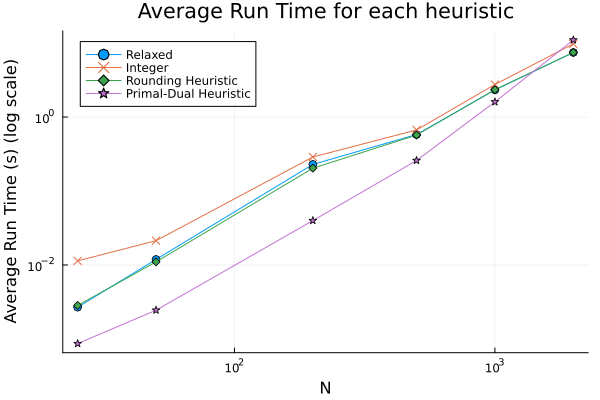
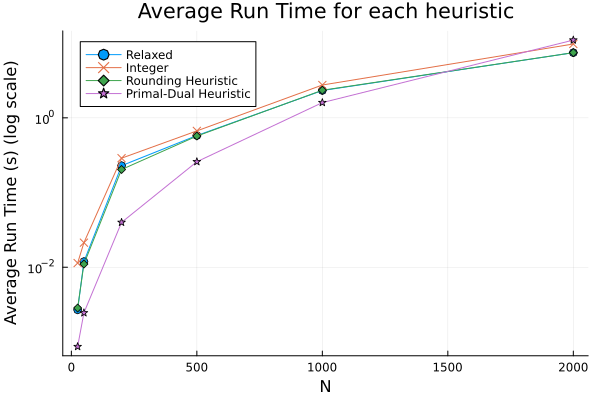
Updating plots & results

diff --git a/SimpleFacilityLocation/readme.md b/SimpleFacilityLocation/readme.md
@@ -16,56 +16,57 @@ The following table give the results obtained on a few instances. We selected in
 
 | Instance | N | M | Relaxed obj | Time | Integer Obj | Time | Integrality Gap | Rounding heuristic | Time | Primal-Dual Heuristic | Time |
 | :----: | -: | -: | -: | -: | -: | -: | -: | -: | -: | -: | -: |
-| 1 | 25 | 10 | 1498.5 | 2.9e-03 | 1500 | 5.7e-03 | 1.5 | 1515 | 3.4e-03 | 1510 | 2.3e-04 |
-| 2 | 25 | 10 | 2191.5 | 2.8e-03 | 2194 | 5.9e-03 | 2.5 | 2201 | 3.0e-03 | 2287 | 3.8e-04 |
-| 3 | 25 | 10 | 1595.0 | 3.4e-03 | 1604 | 6.2e-03 | 9.0 | 1631 | 2.9e-03 | 1865 | 2.7e-04 |
-| 4 | 25 | 10 | 1529.0 | 2.8e-03 | 1532 | 5.4e-03 | 3.0 | 1551 | 2.8e-03 | 1818 | 2.4e-04 |
-| 5 | 25 | 10 | 1399.0 | 2.7e-03 | 1399 | 4.1e-03 | 0.0 | 1399 | 2.8e-03 | 1399 | 2.5e-04 |
-| 6 | 25 | 10 | 1577.0 | 2.5e-03 | 1577 | 3.9e-03 | 0.0 | 1577 | 2.2e-01 | 1687 | 2.6e-04 |
-| 7 | 25 | 10 | 1588.0 | 2.6e-03 | 1588 | 3.8e-03 | 0.0 | 1588 | 2.8e-03 | 1808 | 2.7e-04 |
-| 8 | 25 | 10 | 1752.0 | 2.6e-03 | 1752 | 3.9e-03 | 0.0 | 1752 | 2.6e-03 | 1797 | 3.5e-04 |
-| 9 | 25 | 10 | 1620.0 | 2.7e-03 | 1620 | 3.8e-03 | 0.0 | 1620 | 2.6e-03 | 1648 | 2.9e-04 |
-| 10 | 25 | 10 | 1557.0 | 2.6e-03 | 1557 | 3.8e-03 | 0.0 | 1557 | 2.8e-03 | 1592 | 2.4e-04 |
-| 11 | 50 | 25 | 2210.0 | 1.2e-02 | 2212 | 1.8e-02 | 2.0 | 2221 | 9.9e-03 | 2339 | 6.1e-04 |
-| 12 | 50 | 25 | 2423.5 | 9.9e-03 | 2424 | 1.6e-02 | 0.5 | 2457 | 1.1e-02 | 2766 | 7.8e-04 |
-| 13 | 50 | 25 | 2189.5 | 9.5e-03 | 2197 | 2.4e-02 | 7.5 | 2207 | 1.0e-02 | 2317 | 8.3e-04 |
-| 14 | 50 | 25 | 2186.5 | 1.0e-02 | 2187 | 1.6e-02 | 0.5 | 2232 | 1.0e-02 | 2398 | 5.8e-04 |
-| 15 | 50 | 25 | 2226.0 | 1.0e-02 | 2228 | 1.5e-02 | 2.0 | 2232 | 1.0e-02 | 2325 | 7.4e-04 |
-| 16 | 50 | 25 | 2177.0 | 1.0e-02 | 2178 | 1.9e-02 | 1.0 | 2198 | 9.8e-03 | 2457 | 6.1e-04 |
-| 17 | 50 | 25 | 2558.5 | 1.0e-02 | 2559 | 1.7e-02 | 0.5 | 2569 | 1.1e-02 | 2603 | 9.0e-04 |
-| 18 | 50 | 25 | 2612.0 | 9.6e-03 | 2613 | 1.6e-02 | 1.0 | 2646 | 9.7e-03 | 2699 | 7.0e-04 |
-| 19 | 50 | 25 | 2279.0 | 1.0e-02 | 2280 | 1.6e-02 | 1.0 | 2306 | 1.0e-02 | 2430 | 7.7e-04 |
-| 20 | 50 | 25 | 2327.5 | 9.8e-03 | 2328 | 1.7e-02 | 0.5 | 2365 | 3.9e-02 | 2559 | 6.7e-04 |
-| 21 | 50 | 25 | 2415.0 | 1.0e-02 | 2418 | 1.9e-02 | 3.0 | 2471 | 9.3e-03 | 2539 | 6.6e-04 |
-| 22 | 50 | 25 | 2515.5 | 9.4e-03 | 2516 | 1.6e-02 | 0.5 | 2536 | 9.4e-03 | 2661 | 6.6e-04 |
-| 23 | 50 | 25 | 2442.5 | 9.3e-03 | 2444 | 2.0e-02 | 1.5 | 2461 | 1.0e-02 | 2547 | 6.7e-04 |
-| 24 | 50 | 25 | 2310.5 | 9.9e-03 | 2312 | 1.8e-02 | 1.5 | 2346 | 9.5e-03 | 2390 | 7.2e-04 |
-| 25 | 50 | 25 | 2359.5 | 9.6e-03 | 2362 | 1.6e-02 | 2.5 | 2387 | 9.8e-03 | 2704 | 6.4e-04 |
-| 26 | 50 | 25 | 2338.5 | 9.8e-03 | 2339 | 1.6e-02 | 0.5 | 2395 | 1.0e-02 | 2592 | 6.5e-04 |
-| 27 | 50 | 25 | 2260.0 | 9.9e-03 | 2261 | 2.0e-02 | 1.0 | 2272 | 1.1e-02 | 2282 | 6.7e-04 |
-| 28 | 50 | 25 | 2147.0 | 9.3e-03 | 2147 | 1.1e-02 | 0.0 | 2147 | 9.3e-03 | 2175 | 6.4e-04 |
-| 29 | 50 | 25 | 2471.0 | 9.4e-03 | 2471 | 1.2e-02 | 0.0 | 2471 | 9.5e-03 | 2535 | 7.4e-04 |
-| 30 | 50 | 25 | 2289.0 | 9.5e-03 | 2289 | 1.1e-02 | 0.0 | 2289 | 9.8e-03 | 2386 | 2.9e-02 |
-| 31 | 200 | 100 | 5248.0 | 1.8e-01 | 5251 | 7.0e-01 | 3.0 | 5283 | 1.5e-01 | 6111 | 7.2e-03 |
-| 32 | 200 | 100 | 5006.5 | 1.6e-01 | 5009 | 5.3e-01 | 2.5 | 5075 | 1.8e-01 | 6020 | 5.8e-03 |
-| 33 | 200 | 100 | 4920.0 | 4.1e-01 | 4922 | 3.0e-01 | 2.0 | 4997 | 1.5e-01 | 5831 | 5.0e-03 |
-| 34 | 200 | 100 | 5099.0 | 2.2e-01 | 5099 | 1.7e-01 | 0.0 | 5099 | 2.1e-01 | 5752 | 5.6e-03 |
-| 35 | 200 | 100 | 5175.0 | 1.5e-01 | 5175 | 3.9e-01 | 0.0 | 5175 | 1.8e-01 | 5527 | 5.6e-03 |
-| 36 | 500 | 100 | 10691.0 | 5.0e-01 | 10691 | 7.3e-01 | 0.0 | 10691 | 4.8e-01 | 12358 | 1.7e-02 |
-| 37 | 500 | 100 | 10943.5 | 6.5e-01 | 10945 | 5.6e-01 | 1.5 | 10950 | 7.4e-01 | 12104 | 1.8e-02 |
-| 38 | 500 | 100 | 10862.0 | 4.7e-01 | 10864 | 7.4e-01 | 2.0 | 10903 | 6.9e-01 | 12370 | 1.7e-02 |
-| 39 | 500 | 100 | 11181.0 | 5.0e-01 | 11181 | 7.3e-01 | 0.0 | 11181 | 4.9e-01 | 12740 | 1.7e-02 |
-| 40 | 500 | 100 | 10715.0 | 6.7e-01 | 10715 | 5.7e-01 | 0.0 | 10715 | 6.6e-01 | 12530 | 1.7e-02 |
-| 41 | 1000 | 200 | 16331.0 | 2.5e+00 | 16332 | 3.4e+00 | 1.0 | 16353 | 2.8e+00 | 18911 | 6.8e-02 |
-| 42 | 1000 | 200 | 16325.5 | 3.0e+00 | 16327 | 3.1e+00 | 1.5 | 16341 | 2.7e+00 | 18486 | 7.0e-02 |
-| 43 | 1000 | 200 | 16012.0 | 2.9e+00 | 16012 | 3.1e+00 | 0.0 | 16012 | 3.1e+00 | 18917 | 7.3e-02 |
-| 44 | 1000 | 200 | 16976.0 | 2.8e+00 | 16976 | 3.4e+00 | 0.0 | 16976 | 2.5e+00 | 19948 | 7.3e-02 |
-| 45 | 1000 | 200 | 16948.0 | 2.6e+00 | 16948 | 3.2e+00 | 0.0 | 16948 | 2.9e+00 | 19257 | 8.8e-02 |
-| 46 | 2000 | 300 | 26302.0 | 1.0e+01 | 26303 | 1.1e+01 | 1.0 | 26334 | 8.6e+00 | 30594 | 3.5e-01 |
-| 47 | 2000 | 300 | 25960.0 | 8.4e+00 | 25960 | 9.6e+00 | 0.0 | 25960 | 9.5e+00 | 29895 | 3.9e-01 |
-| 48 | 2000 | 300 | 25919.0 | 8.5e+00 | 25919 | 1.0e+01 | 0.0 | 25919 | 8.3e+00 | 29247 | 3.3e-01 |
-| 49 | 2000 | 300 | 26266.0 | 7.9e+00 | 26266 | 1.1e+01 | 0.0 | 26266 | 9.9e+00 | 31108 | 4.0e-01 |
-| 50 | 2000 | 300 | 25709.0 | 8.4e+00 | 25709 | 1.0e+01 | 0.0 | 25709 | 9.0e+00 | 30188 | 4.2e-01 |
+| 1 | 25 | 10 | 1498.5 | 2.9e-03 | 1500 | 6.5e-02 | 1.5 | 1515 | 2.8e-03 | 1516 | 7.1e-04 |
+| 2 | 25 | 10 | 2191.5 | 2.6e-03 | 2194 | 5.4e-03 | 2.5 | 2201 | 2.9e-03 | 2287 | 1.9e-03 |
+| 3 | 25 | 10 | 1595.0 | 2.9e-03 | 1604 | 6.0e-03 | 9.0 | 1631 | 3.2e-03 | 1865 | 8.4e-04 |
+| 4 | 25 | 10 | 1529.0 | 2.8e-03 | 1532 | 4.8e-03 | 3.0 | 1551 | 2.8e-03 | 1608 | 7.2e-04 |
+| 5 | 25 | 10 | 1399.0 | 2.7e-03 | 1399 | 4.1e-03 | 0.0 | 1399 | 2.7e-03 | 1399 | 7.0e-04 |
+| 6 | 25 | 10 | 1577.0 | 2.5e-03 | 1577 | 1.3e-02 | 0.0 | 1577 | 2.7e-03 | 1687 | 6.9e-04 |
+| 7 | 25 | 10 | 1588.0 | 2.6e-03 | 1588 | 3.7e-03 | 0.0 | 1588 | 3.2e-03 | 1808 | 8.0e-04 |
+| 8 | 25 | 10 | 1752.0 | 2.7e-03 | 1752 | 3.6e-03 | 0.0 | 1752 | 2.8e-03 | 1797 | 8.4e-04 |
+| 9 | 25 | 10 | 1620.0 | 2.7e-03 | 1620 | 4.2e-03 | 0.0 | 1620 | 2.7e-03 | 1648 | 7.4e-04 |
+| 10 | 25 | 10 | 1557.0 | 2.5e-03 | 1557 | 3.5e-03 | 0.0 | 1557 | 2.7e-03 | 1592 | 7.4e-04 |
+| 11 | 50 | 25 | 2210.0 | 1.0e-02 | 2212 | 2.4e-02 | 2.0 | 2221 | 1.2e-02 | 2339 | 2.0e-03 |
+| 12 | 50 | 25 | 2423.5 | 1.1e-02 | 2424 | 3.1e-02 | 0.5 | 2457 | 1.0e-02 | 2639 | 2.5e-03 |
+| 13 | 50 | 25 | 2189.5 | 9.8e-03 | 2197 | 2.1e-02 | 7.5 | 2207 | 9.7e-03 | 2317 | 2.4e-03 |
+| 14 | 50 | 25 | 2186.5 | 1.0e-02 | 2187 | 1.7e-02 | 0.5 | 2232 | 1.7e-02 | 2336 | 2.2e-03 |
+| 15 | 50 | 25 | 2226.0 | 9.6e-03 | 2228 | 1.6e-02 | 2.0 | 2232 | 1.0e-02 | 2298 | 2.4e-03 |
+| 16 | 50 | 25 | 2177.0 | 1.1e-02 | 2178 | 1.6e-02 | 1.0 | 2198 | 9.6e-03 | 2279 | 2.3e-03 |
+| 17 | 50 | 25 | 2558.5 | 3.8e-02 | 2559 | 2.0e-02 | 0.5 | 2569 | 1.0e-02 | 2603 | 2.7e-03 |
+| 18 | 50 | 25 | 2612.0 | 1.1e-02 | 2613 | 1.6e-02 | 1.0 | 2646 | 9.8e-03 | 2699 | 2.7e-03 |
+| 19 | 50 | 25 | 2279.0 | 9.7e-03 | 2280 | 7.6e-02 | 1.0 | 2306 | 9.8e-03 | 2430 | 2.3e-03 |
+| 20 | 50 | 25 | 2327.5 | 1.0e-02 | 2328 | 1.6e-02 | 0.5 | 2365 | 9.8e-03 | 2534 | 2.2e-03 |
+| 21 | 50 | 25 | 2415.0 | 1.0e-02 | 2418 | 2.2e-02 | 3.0 | 2471 | 1.3e-02 | 2539 | 3.4e-03 |
+| 22 | 50 | 25 | 2515.5 | 1.1e-02 | 2516 | 1.8e-02 | 0.5 | 2536 | 1.0e-02 | 2624 | 2.3e-03 |
+| 23 | 50 | 25 | 2442.5 | 1.0e-02 | 2444 | 1.8e-02 | 1.5 | 2461 | 2.1e-02 | 2547 | 2.3e-03 |
+| 24 | 50 | 25 | 2310.5 | 9.5e-03 | 2312 | 1.7e-02 | 1.5 | 2346 | 1.0e-02 | 2390 | 2.6e-03 |
+| 25 | 50 | 25 | 2359.5 | 1.0e-02 | 2362 | 1.7e-02 | 2.5 | 2387 | 9.8e-03 | 2704 | 2.4e-03 |
+| 26 | 50 | 25 | 2338.5 | 9.9e-03 | 2339 | 1.7e-02 | 0.5 | 2395 | 9.8e-03 | 2592 | 2.7e-03 |
+| 27 | 50 | 25 | 2260.0 | 1.8e-02 | 2261 | 2.5e-02 | 1.0 | 2272 | 9.7e-03 | 2270 | 2.3e-03 |
+| 28 | 50 | 25 | 2147.0 | 9.4e-03 | 2147 | 1.2e-02 | 0.0 | 2147 | 9.7e-03 | 2175 | 2.3e-03 |
+| 29 | 50 | 25 | 2471.0 | 9.5e-03 | 2471 | 1.7e-02 | 0.0 | 2471 | 9.6e-03 | 2535 | 2.8e-03 |
+| 30 | 50 | 25 | 2289.0 | 1.0e-02 | 2289 | 1.1e-02 | 0.0 | 2289 | 9.6e-03 | 2386 | 2.1e-03 |
+| 31 | 200 | 100 | 5248.0 | 2.1e-01 | 5251 | 3.2e-01 | 3.0 | 5283 | 2.2e-01 | 5779 | 4.1e-02 |
+| 32 | 200 | 100 | 5006.5 | 2.8e-01 | 5009 | 3.6e-01 | 2.5 | 5075 | 2.2e-01 | 6007 | 4.0e-02 |
+| 33 | 200 | 100 | 4920.0 | 1.8e-01 | 4922 | 3.6e-01 | 2.0 | 4997 | 1.7e-01 | 5803 | 3.5e-02 |
+| 34 | 200 | 100 | 5099.0 | 2.6e-01 | 5099 | 1.9e-01 | 0.0 | 5099 | 1.9e-01 | 5741 | 4.1e-02 |
+| 35 | 200 | 100 | 5175.0 | 2.2e-01 | 5175 | 2.2e-01 | 0.0 | 5175 | 2.2e-01 | 5483 | 4.2e-02 |
+| 36 | 500 | 100 | 10691.0 | 6.4e-01 | 10691 | 6.9e-01 | 0.0 | 10691 | 6.2e-01 | 12336 | 2.5e-01 |
+| 37 | 500 | 100 | 10943.5 | 5.6e-01 | 10945 | 6.2e-01 | 1.5 | 10950 | 5.8e-01 | 12053 | 2.6e-01 |
+| 38 | 500 | 100 | 10862.0 | 5.9e-01 | 10864 | 8.1e-01 | 2.0 | 10903 | 5.5e-01 | 12205 | 2.7e-01 |
+| 39 | 500 | 100 | 11181.0 | 5.4e-01 | 11181 | 5.6e-01 | 0.0 | 11181 | 5.7e-01 | 12613 | 2.6e-01 |
+| 40 | 500 | 100 | 10715.0 | 5.7e-01 | 10715 | 6.6e-01 | 0.0 | 10715 | 5.3e-01 | 12264 | 2.7e-01 |
+| 41 | 1000 | 200 | 16331.0 | 2.4e+00 | 16332 | 2.9e+00 | 1.0 | 16353 | 2.3e+00 | 18146 | 1.6e+00 |
+| 42 | 1000 | 200 | 16325.5 | 2.4e+00 | 16327 | 2.7e+00 | 1.5 | 16341 | 2.2e+00 | 18382 | 1.5e+00 |
+| 43 | 1000 | 200 | 16012.0 | 2.1e+00 | 16012 | 2.6e+00 | 0.0 | 16012 | 2.2e+00 | 18639 | 1.3e+00 |
+| 44 | 1000 | 200 | 16976.0 | 2.2e+00 | 16976 | 2.5e+00 | 0.0 | 16976 | 2.5e+00 | 19868 | 1.8e+00 |
+| 45 | 1000 | 200 | 16948.0 | 2.5e+00 | 16948 | 3.1e+00 | 0.0 | 16948 | 2.5e+00 | 18694 | 1.8e+00 |
+| 46 | 2000 | 300 | 26302.0 | 7.3e+00 | 26303 | 1.1e+01 | 1.0 | 26334 | 7.5e+00 | 29521 | 1.1e+01 |
+| 47 | 2000 | 300 | 25960.0 | 7.9e+00 | 25960 | 1.0e+01 | 0.0 | 25960 | 7.0e+00 | 29411 | 1.0e+01 |
+| 48 | 2000 | 300 | 25919.0 | 6.9e+00 | 25919 | 9.0e+00 | 0.0 | 25919 | 7.9e+00 | 28823 | 1.2e+01 |
+| 49 | 2000 | 300 | 26266.0 | 7.6e+00 | 26266 | 9.6e+00 | 0.0 | 26266 | 7.4e+00 | 29780 | 1.1e+01 |
+| 50 | 2000 | 300 | 25709.0 | 7.7e+00 | 25709 | 9.1e+00 | 0.0 | 25709 | 7.5e+00 | 29798 | 1.1e+01 |
+
 
 
 # Plots
